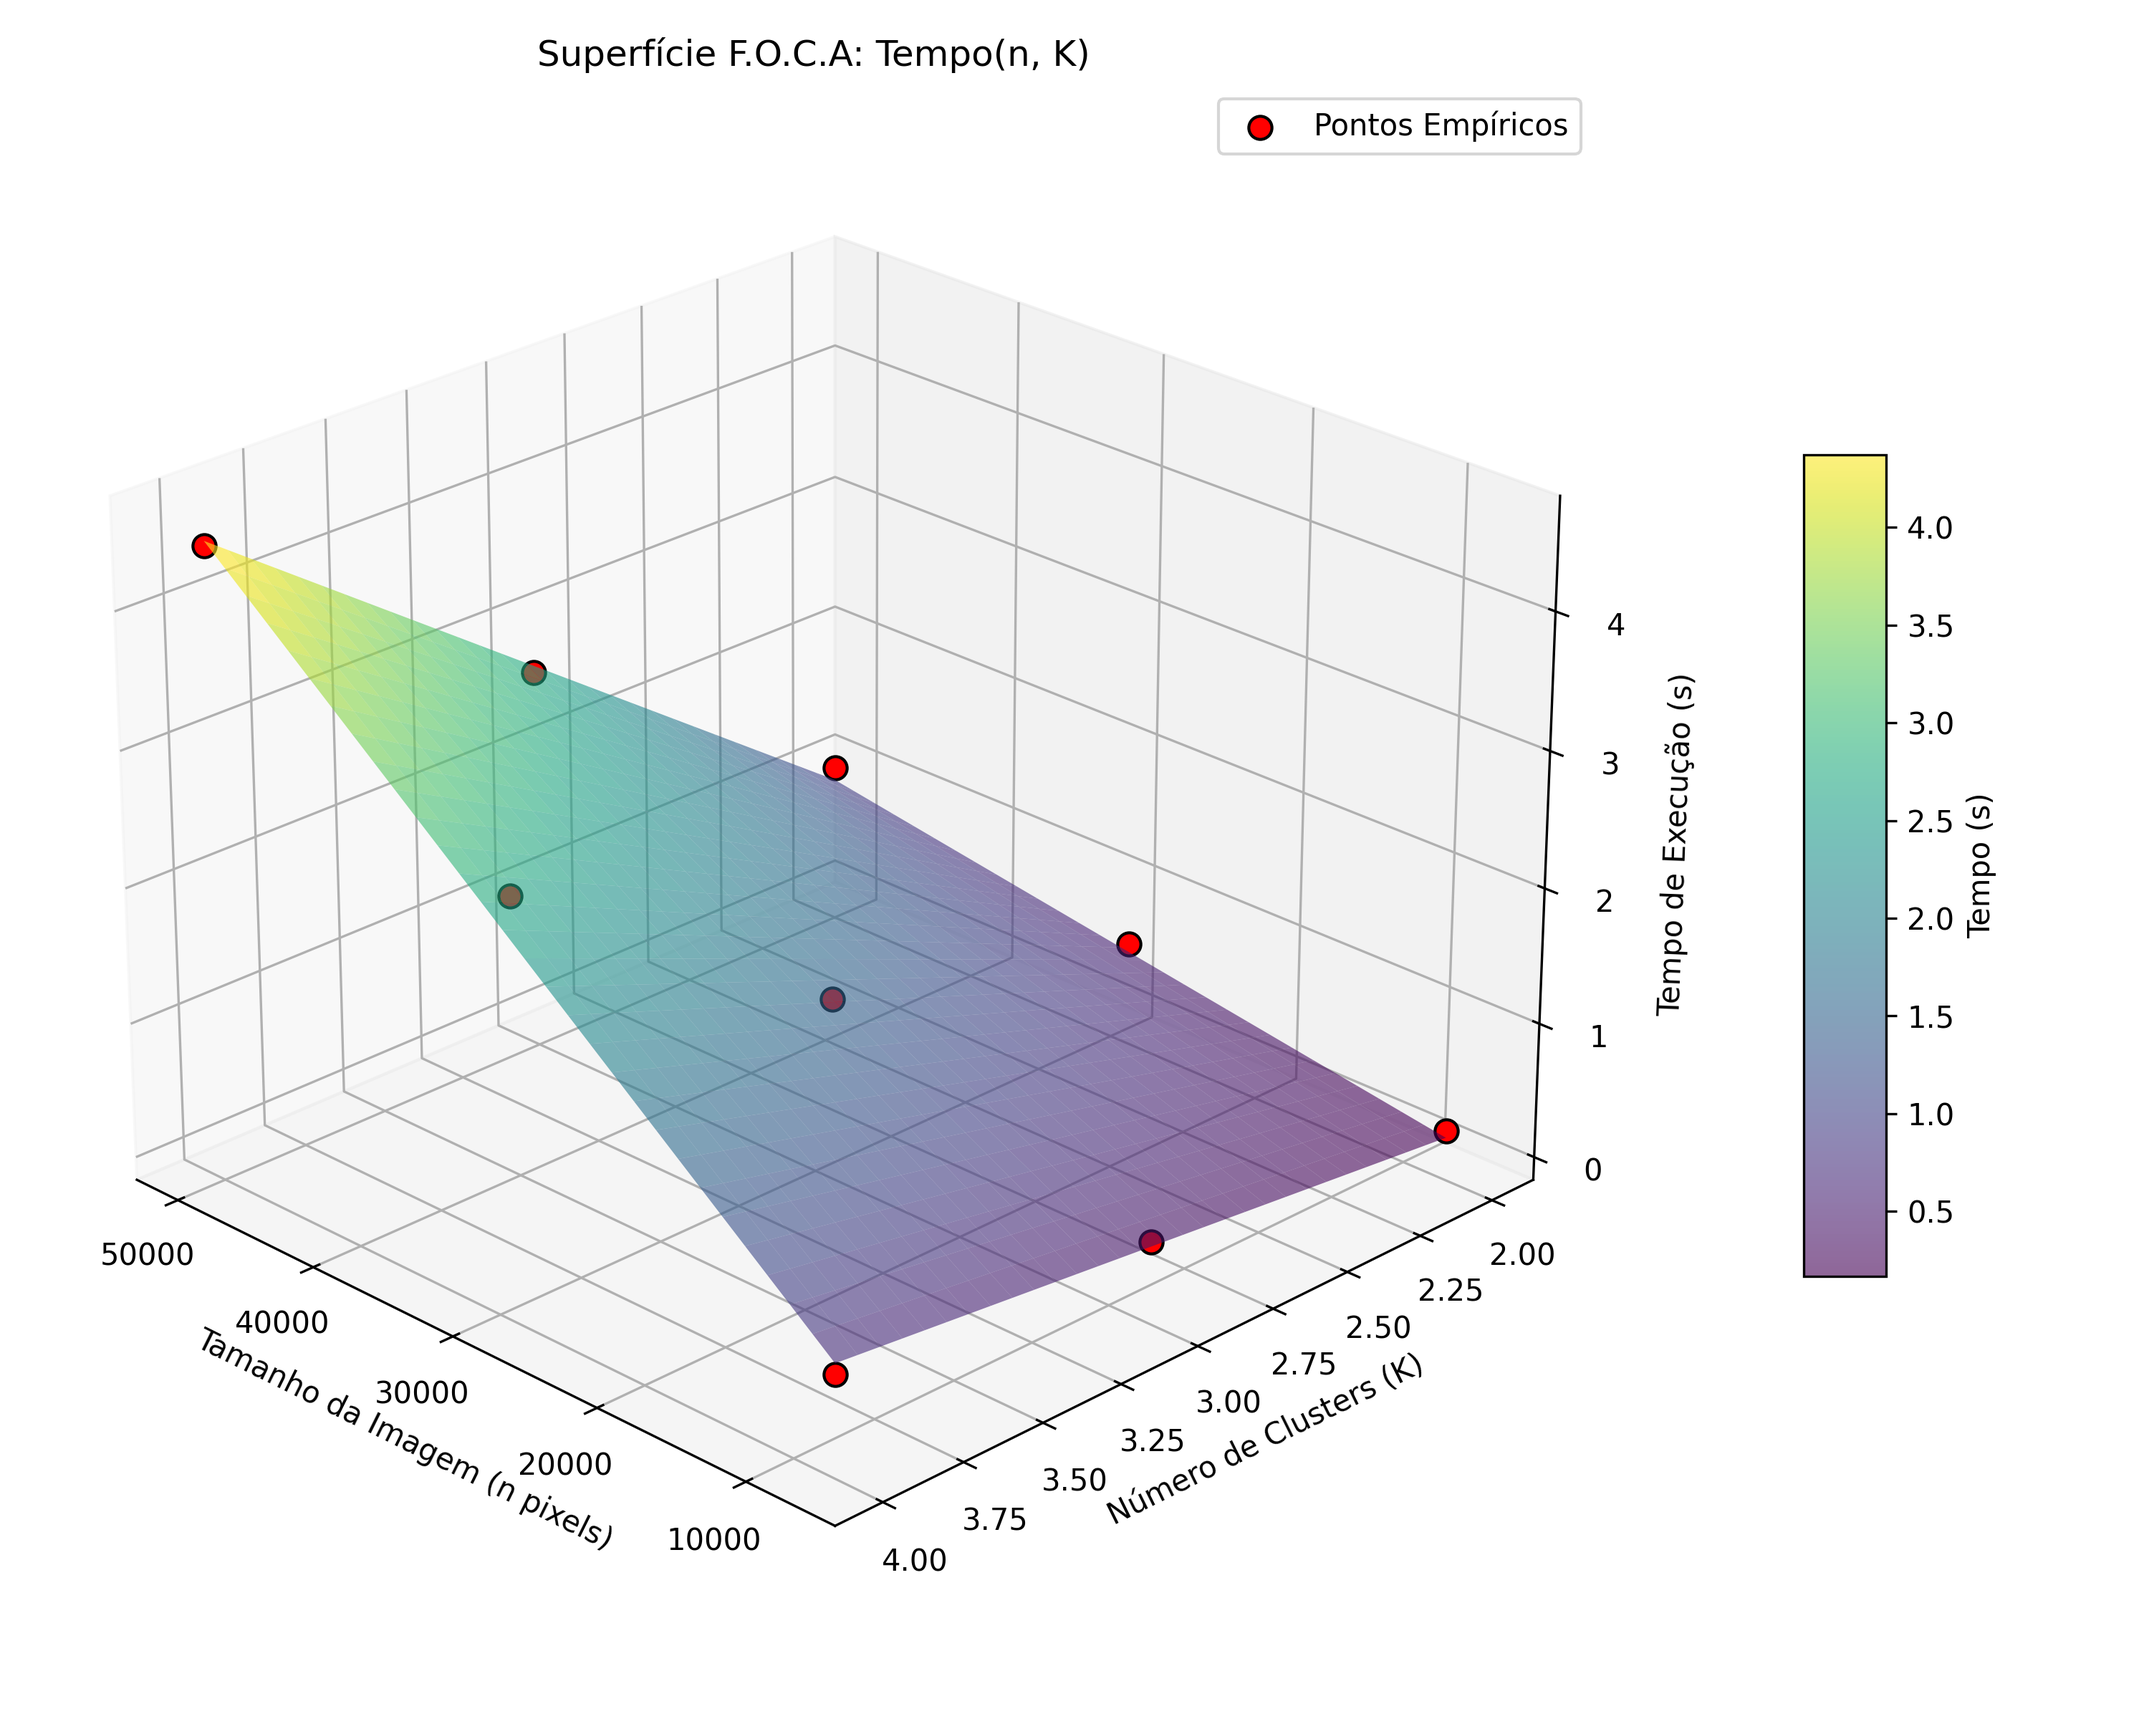
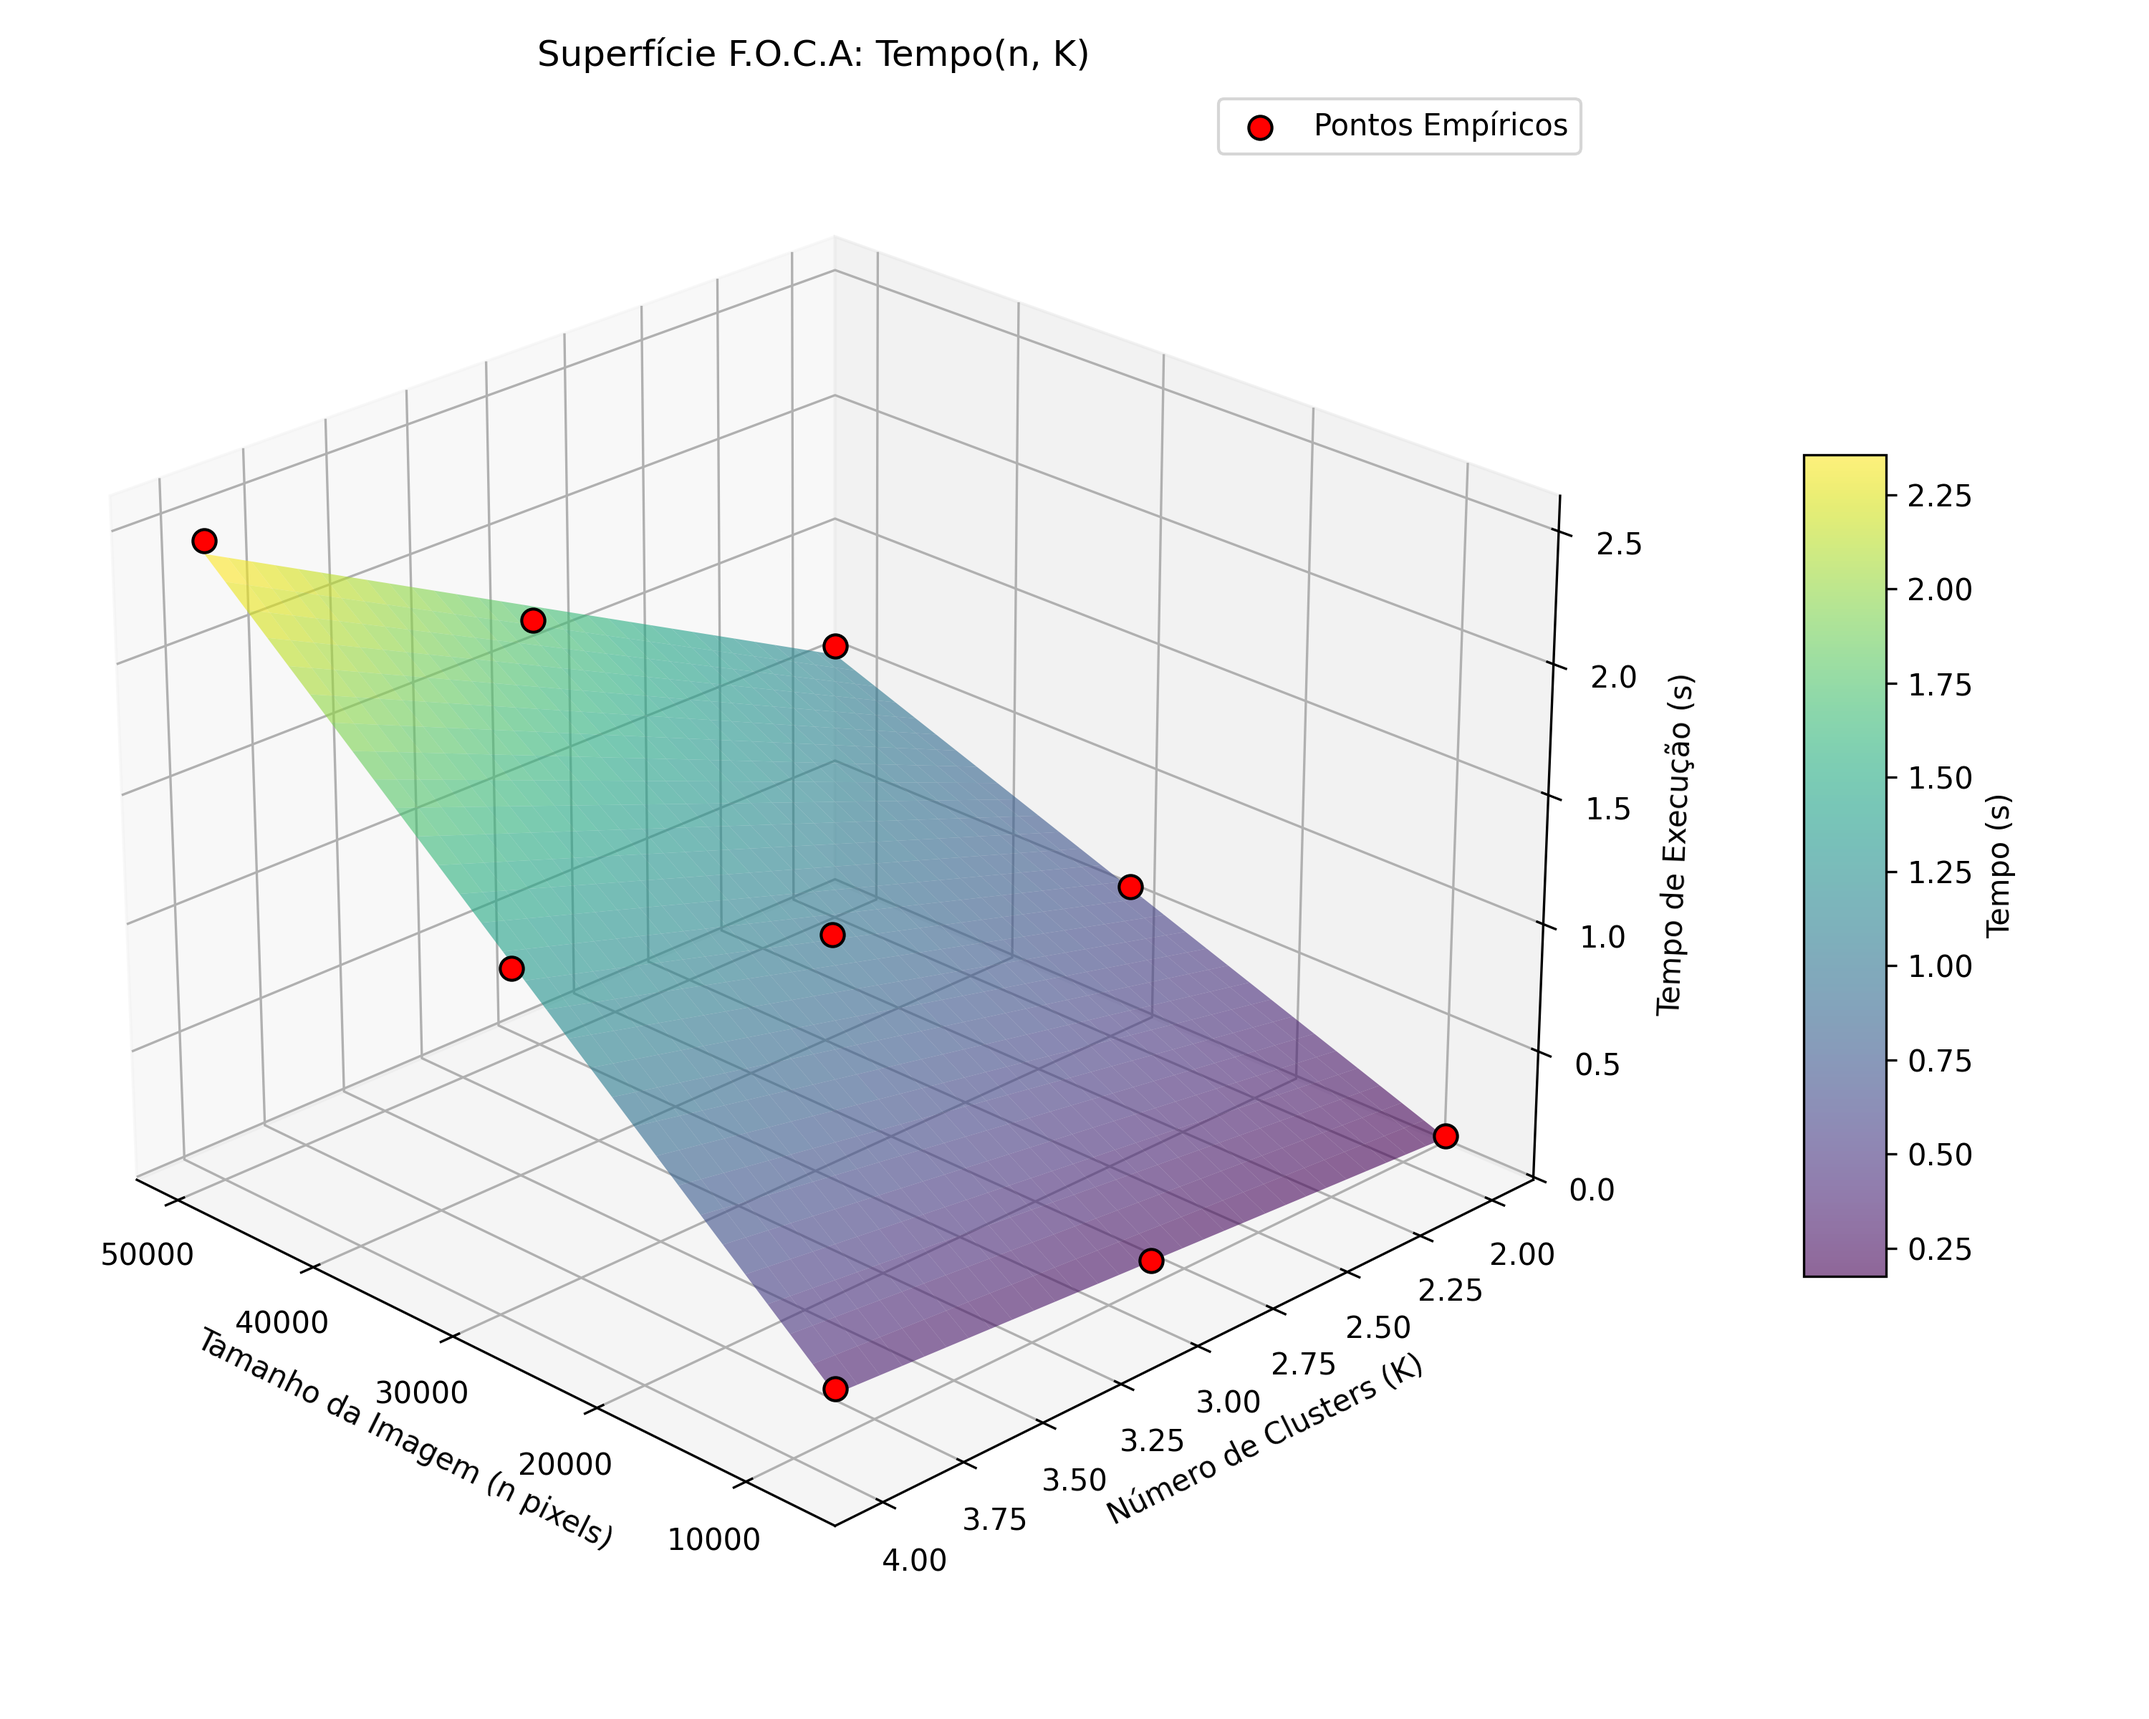
correções implementadas

diff --git a/experimentador_EP_2026.2.py b/experimentador_EP_2026.2.py
@@ -110,7 +110,7 @@ def segmenta_imagem(imagem_array, k, m=2.0, max_iter=100, epsilon=0.01):
 # ==========================================
 img_dir = "./minhas_imagens" # Substitua pelo diretório real
 k_list = [2, 3, 4]
-R =5 # Número de repetições por combinação
+R =30 # Número de repetições por combinação
 
 print("Mapeando imagens e calculando 'n' (apenas cabeçalhos)...")
 arquivos_n = []
@@ -151,8 +151,9 @@ for item in arquivos_n:
     # Executa todas as repetições e Ks para esta imagem
     for k in k_list:
         for r in range(R):
+            random.seed(42)
             t0 = time.perf_counter()
-            segmenta_imagem(img_array, k)  # A matriz é passada aqui
+            segmenta_imagem(img_array, k, max_iter=10, epsilon=0.0)  # A matriz é passada aqui
             t1 = time.perf_counter()
             
             resultados.append({
@@ -209,6 +210,18 @@ if not df_raw.empty:
     # O p0 pode precisar de sintonia dependendo da escala de tempo real
     popt, _ = curve_fit(model_n_k, X_data, y_data, p0=[1e-6, 1e-6, 1e-6, 0.01], maxfev=10000)
     resumo['tempo_predito'] = model_n_k(X_data, *popt)
+
+    residuals = y_data - resumo['tempo_predito']
+    ss_res = np.sum(residuals**2)
+    ss_tot = np.sum((y_data - np.mean(y_data))**2)
+    r_squared = 1 - (ss_res / ss_tot)
+
+    print("\n--- PARÂMETROS CALIBRADOS (COPIAR PARA O RELATÓRIO) ---")
+    print(f"alpha = {popt[0]:.8f}")
+    print(f"beta  = {popt[1]:.8f}")
+    print(f"gamma = {popt[2]:.8f}")
+    print(f"delta = {popt[3]:.8f}")
+    print(f"R^2   = {r_squared:.4f}")
     
     # ==========================================
     # 6. Plotagens Bidimensionais

diff --git a/experimentador_EP_FCMPuro.py b/experimentador_EP_FCMPuro.py
@@ -243,7 +243,7 @@ if __name__ == "__main__":
 # ==========================================
 img_dir = "./minhas_imagens" # Substitua pelo diretório real
 k_list = [2, 3, 4]
-R =5 # Número de repetições por combinação
+R =30 # Número de repetições por combinação
 
 print("Mapeando imagens e calculando 'n' (apenas cabeçalhos)...")
 arquivos_n = []
@@ -284,8 +284,9 @@ for item in arquivos_n:
     # Executa todas as repetições e Ks para esta imagem
     for k in k_list:
         for r in range(R):
+            random.seed(42)
             t0 = time.perf_counter()
-            segmenta_imagem(img_array, k)  # A matriz é passada aqui
+            segmenta_imagem(img_array, k, max_iter=10, epsilon=0.0)  # A matriz é passada aqui
             t1 = time.perf_counter()
             
             resultados.append({
@@ -342,6 +343,18 @@ if not df_raw.empty:
     # O p0 pode precisar de sintonia dependendo da escala de tempo real
     popt, _ = curve_fit(model_n_k, X_data, y_data, p0=[1e-6, 1e-6, 1e-6, 0.01], maxfev=10000)
     resumo['tempo_predito'] = model_n_k(X_data, *popt)
+    #calculo do R^2
+    residuals = y_data - resumo['tempo_predito']
+    ss_res = np.sum(residuals**2)
+    ss_tot = np.sum((y_data - np.mean(y_data))**2)
+    r_squared = 1 - (ss_res / ss_tot)
+
+    print("\n--- PARÂMETROS CALIBRADOS (COPIAR PARA O RELATÓRIO) ---")
+    print(f"alpha = {popt[0]:.8f}")
+    print(f"beta  = {popt[1]:.8f}")
+    print(f"gamma = {popt[2]:.8f}")
+    print(f"delta = {popt[3]:.8f}")
+    print(f"R^2   = {r_squared:.4f}")
     
     # ==========================================
     # 6. Plotagens Bidimensionais
